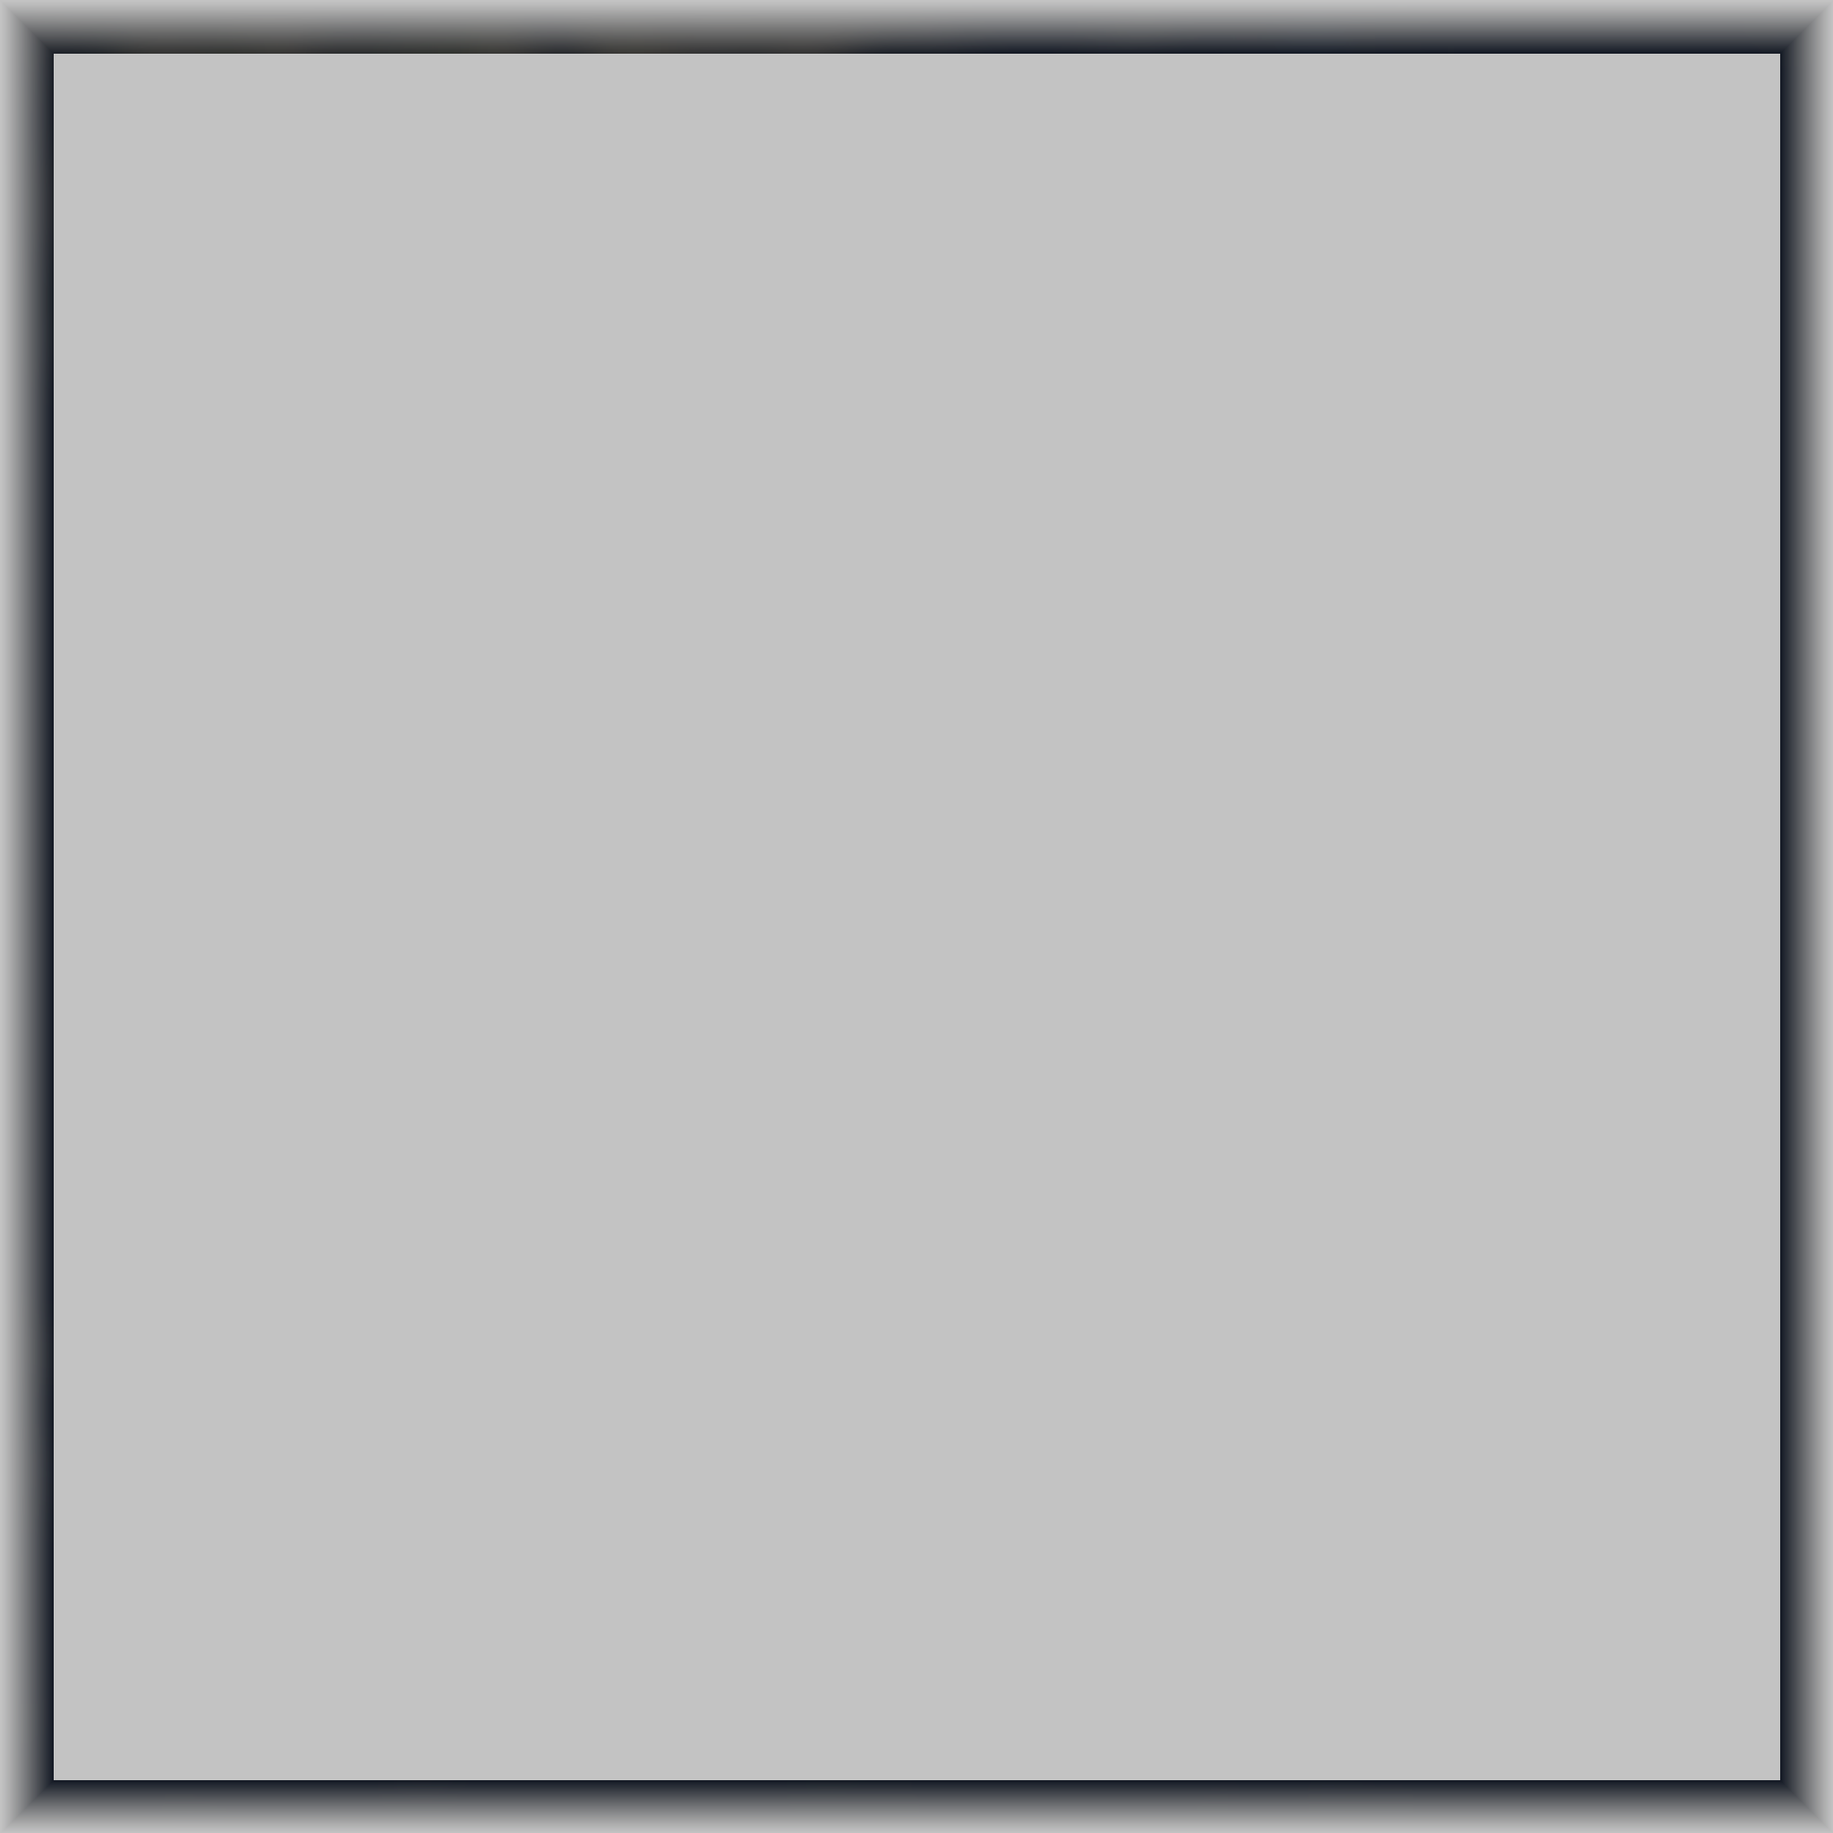
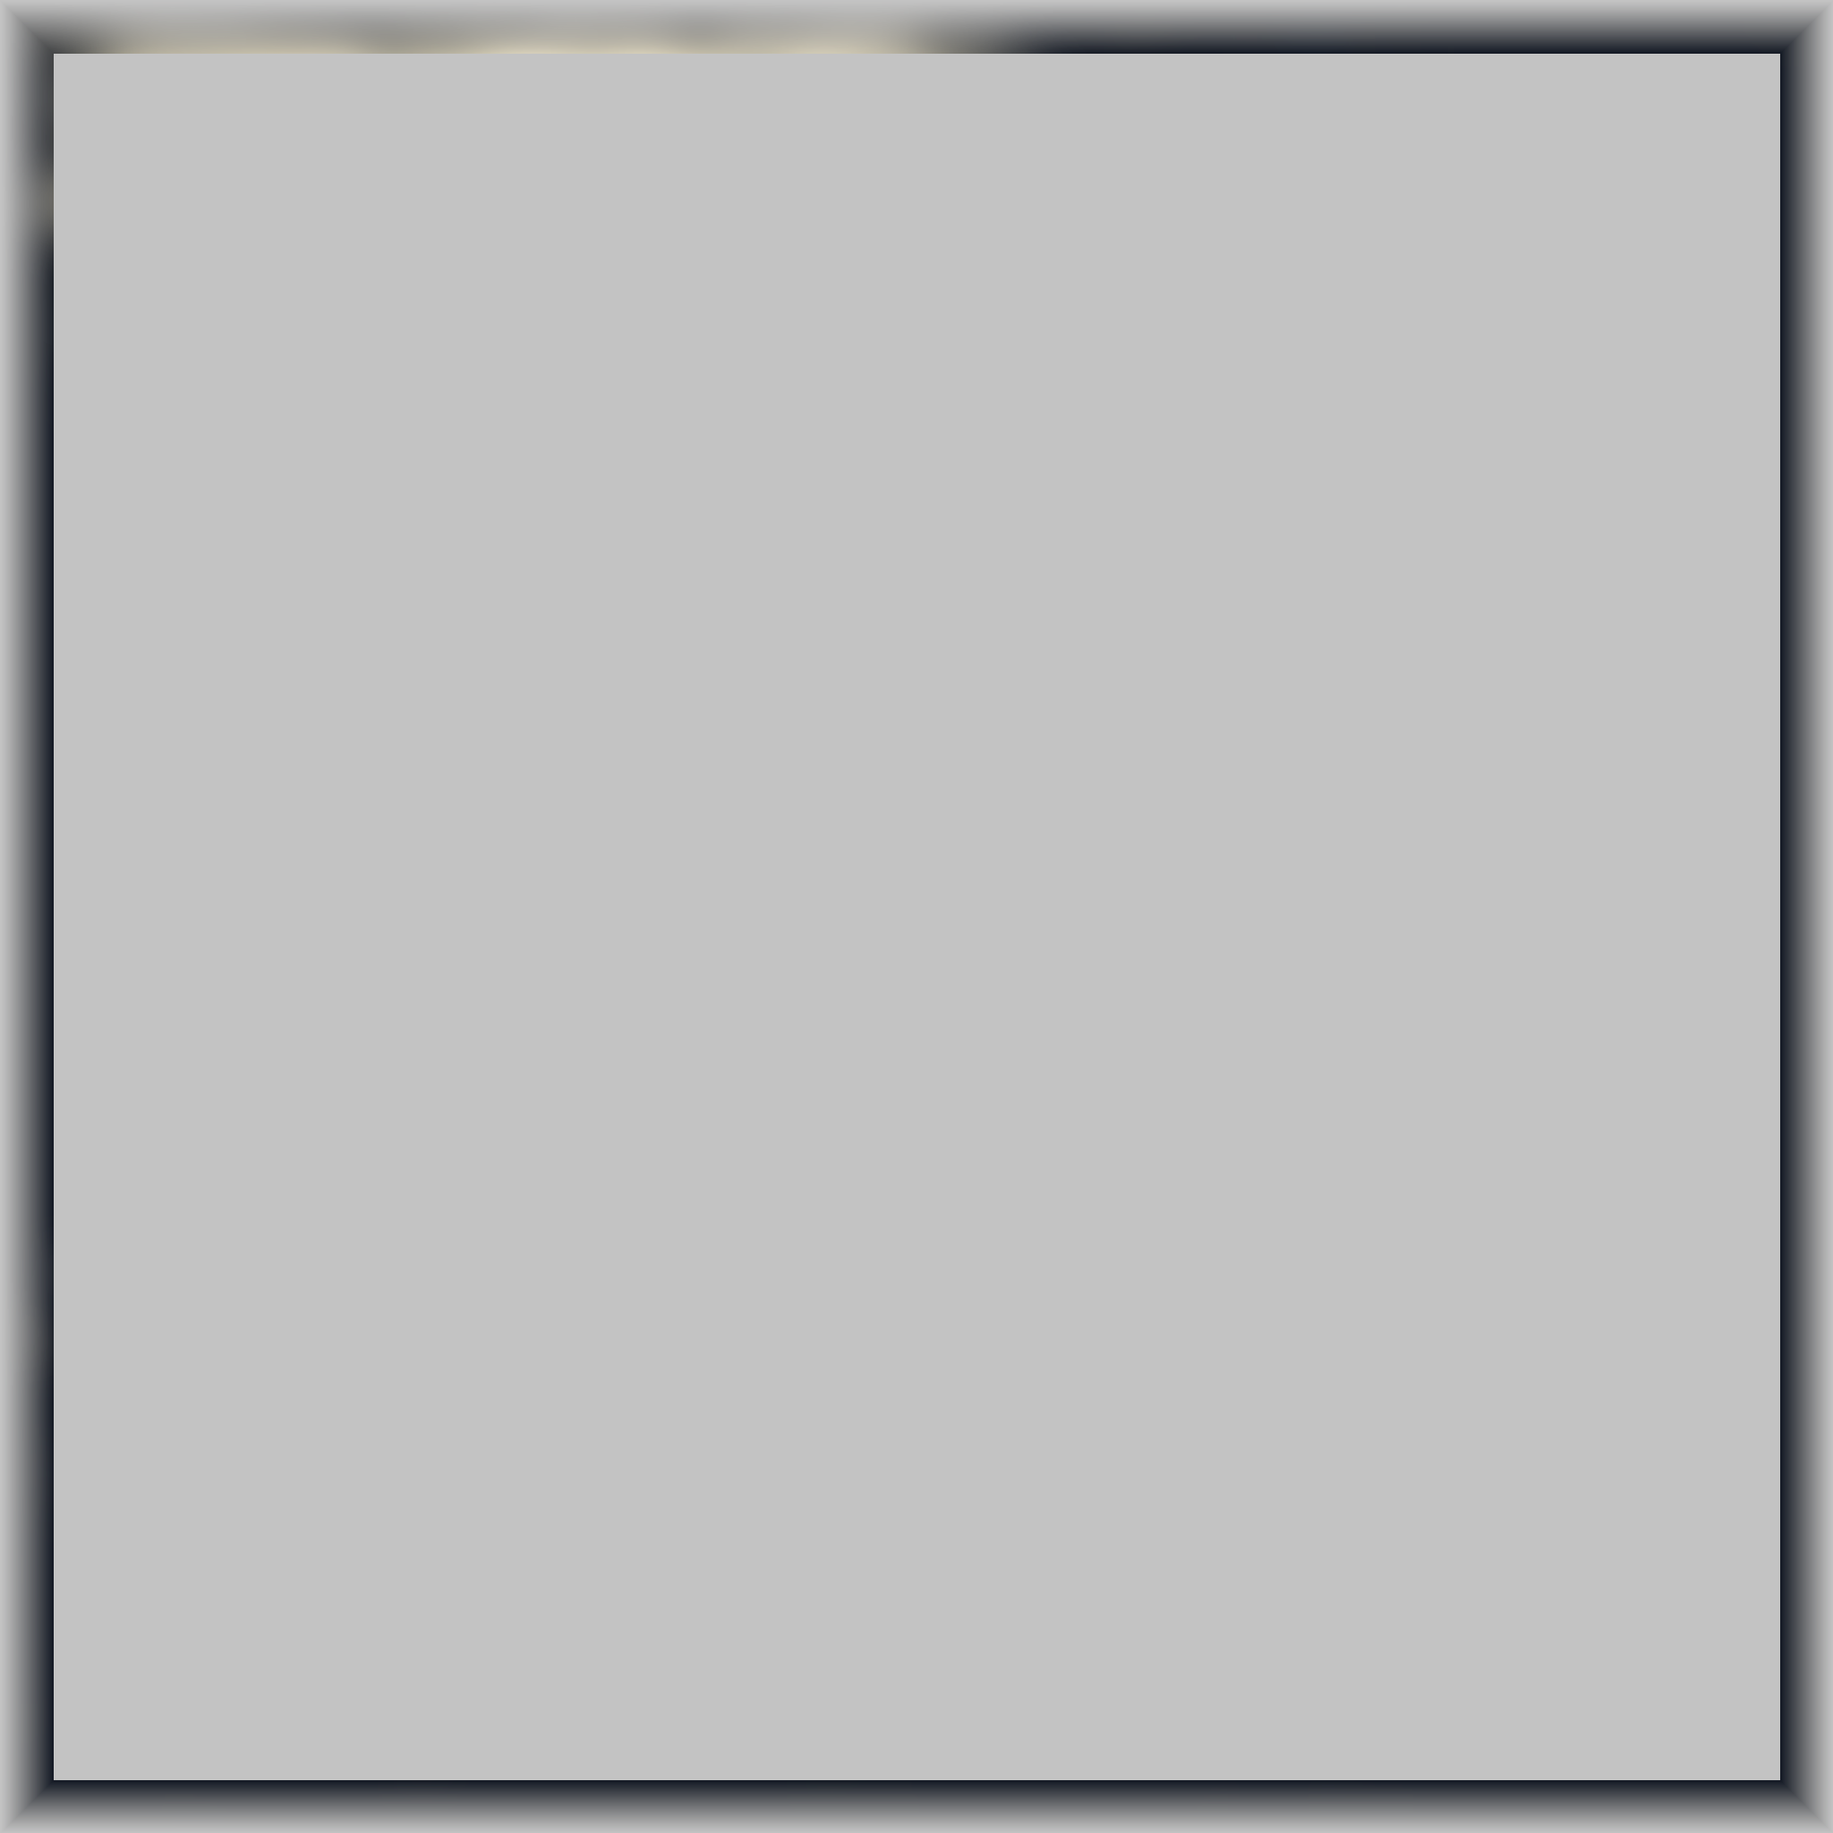
Phase H: smart flyToChapter + street/place labels + map legend
H1 - Street/Place labels in basemap:
- scripts/render_hk_basemap.py: new Pass 5 renders major road names
  (motorway/trunk/primary) + place labels (park/hospital/school/mall)
- 10,927 labels rendered on 2048x2048 basemap (42,927 → 74,361 bytes)
- Uses CJK font (msgothic/msyh/NotoSansCJK fallback chain)

H2 - flyToChapter smart zoom:
- Computes bounding box of all locations referenced by chapter ±2
- Pads bbox by 25%, converts to viewBox coords (with y-axis invert)
- Falls back to full HK bbox if no locations match
- Replaces stub `flyToChapter` that did nothing

H3 - Map legend overlay:
- HTML overlay with marker color samples (current event, other event,
  real location, fictional location, selected, character route)
- Position: top-left under existing map-overlay

H4 - CSS for legend (separate .map-legend / .legend-item / .dot-* rules)

H5 - vitest tests:
- tests/svgmap.legend.test.ts: 6 new tests
  * legend HTML structure
  * CJK label "地圖標記"
  * marker type descriptions
  * flyToChapter implementation
  * 25% bbox padding
  * render script has label passes

Gates:
- pytest 100/100 (no regression)
- vitest 18/18 (was 12)
- lint / typecheck / build / validate / audit --strict all green

Changed region(s): [[0.0312, 0.0, 0.5625, 0.0312], [0.0, 0.0312, 0.0312, 0.125]]

diff --git a/src/components/SvgMap.ts b/src/components/SvgMap.ts
@@ -128,7 +128,17 @@ export class SvgMap {
           </defs>
           <g id="map-content"></g>
         </svg>
-        <div class="map-overlay" id="map-overlay"></div>
+        <div class="map-overlay" id="map-overlay">
+          <div class="map-legend" id="map-legend">
+            <div class="legend-title">地圖標記</div>
+            <div class="legend-item"><span class="dot dot-event-current"></span>本章事件</div>
+            <div class="legend-item"><span class="dot dot-event-other"></span>其他章事件</div>
+            <div class="legend-item"><span class="dot dot-loc-real"></span>真實地點</div>
+            <div class="legend-item"><span class="dot dot-loc-fictional"></span>虛構地點</div>
+            <div class="legend-item"><span class="dot dot-selected"></span>選中</div>
+            <div class="legend-item"><span class="line route-legend"></span>角色路線</div>
+          </div>
+        </div>
         <div class="map-controls">
           <button id="map-zoom-in" class="map-ctrl" title="放大">+</button>
           <button id="map-zoom-out" class="map-ctrl" title="縮小">−</button>
@@ -336,7 +346,58 @@ export class SvgMap {
   }
 
   flyToChapter(_ch: number): void {
-    // Optional: pan slightly to focus events of this chapter
+    // Phase H: smart zoom — compute the bounding box of all locations
+    // referenced by the chapter (and surrounding ±3 chapters for context)
+    // and re-pan the viewBox to fit. Falls back to the full HK bbox if no
+    // locations are present.
+    const cur = _ch;
+    const contextChs = new Set<number>();
+    for (let d = -2; d <= 2; d++) contextChs.add(cur + d);
+    let lonMin = Infinity, lonMax = -Infinity, latMin = Infinity, latMax = -Infinity;
+    let has = false;
+    for (const loc of this.data.locations.features) {
+      const fp = loc.properties.first_appearance;
+      const chs = loc.properties.chapters || [fp];
+      if (chs.some((c: number) => contextChs.has(c))) {
+        const [lon, lat] = (loc.geometry.coordinates as [number, number]);
+        // Also try FALLBACK_ANCHORS for fictional locations
+        const fb = FALLBACK_ANCHORS[loc.properties.name];
+        const useLon = fb ? fb.lon : lon;
+        const useLat = fb ? fb.lat : lat;
+        if (useLon >= BASEMAP_BBOX.lon_min && useLon <= BASEMAP_BBOX.lon_max) {
+          lonMin = Math.min(lonMin, useLon);
+          lonMax = Math.max(lonMax, useLon);
+          latMin = Math.min(latMin, useLat);
+          latMax = Math.max(latMax, useLat);
+          has = true;
+        }
+      }
+    }
+    if (!has) {
+      this.render();
+      return;
+    }
+    // Pad bbox by 25% to give some breathing room
+    const lonPad = (lonMax - lonMin) * 0.25;
+    const latPad = (latMax - latMin) * 0.25;
+    lonMin = Math.max(BASEMAP_BBOX.lon_min, lonMin - lonPad);
+    lonMax = Math.min(BASEMAP_BBOX.lon_max, lonMax + lonPad);
+    latMin = Math.max(BASEMAP_BBOX.lat_min, latMin - latPad);
+    latMax = Math.min(BASEMAP_BBOX.lat_max, latMax + latPad);
+    // Convert to viewBox coords
+    const fx0 = (lonMin - BASEMAP_BBOX.lon_min) / (BASEMAP_BBOX.lon_max - BASEMAP_BBOX.lon_min);
+    const fx1 = (lonMax - BASEMAP_BBOX.lon_min) / (BASEMAP_BBOX.lon_max - BASEMAP_BBOX.lon_min);
+    // Y-axis inverted (SVG y points down, lat points up)
+    const fy0 = (BASEMAP_BBOX.lat_max - latMax) / (BASEMAP_BBOX.lat_max - BASEMAP_BBOX.lat_min);
+    const fy1 = (BASEMAP_BBOX.lat_max - latMin) / (BASEMAP_BBOX.lat_max - BASEMAP_BBOX.lat_min);
+    const x = 113.85 + Math.min(fx0, fx1) * 0.60;
+    const y = 22.18 + Math.min(fy0, fy1) * 0.37;
+    const w = Math.abs(fx1 - fx0) * 0.60;
+    const h = Math.abs(fy1 - fy0) * 0.37;
+    this.svg.setAttribute("viewBox", `${x} ${y} ${w} ${h}`);
+    this.viewX = 0;
+    this.viewY = 0;
+    this.viewScale = 1.0;
     this.render();
   }
 }

diff --git a/tests/svgmap.legend.test.ts b/tests/svgmap.legend.test.ts
@@ -1,0 +1,78 @@
+// 《病港》Phase H — SvgMap 互動地圖測試
+// Validates legend rendering and flyToChapter smart zoom behaviour.
+
+import { readFileSync } from "node:fs";
+import { describe, expect, it } from "vitest";
+
+describe("Phase H: SvgMap legend", () => {
+  it("legend HTML exists in SvgMap template", () => {
+    // The map legend with marker color samples is defined in SvgMap.ts init()
+    // template. This smoke-test reads the source and checks for the expected
+    // CSS class names that the legend uses.
+    const src = readFileSync("src/components/SvgMap.ts", "utf-8");
+    // Legend CSS classes
+    expect(src).toContain('class="map-legend"');
+    expect(src).toContain('class="legend-title"');
+    expect(src).toContain('class="legend-item"');
+    // Legend marker color classes
+    expect(src).toContain("dot-event-current");
+    expect(src).toContain("dot-event-other");
+    expect(src).toContain("dot-loc-real");
+    expect(src).toContain("dot-loc-fictional");
+    expect(src).toContain("dot-selected");
+    expect(src).toContain("route-legend");
+  });
+
+  it("legend includes CJK label '地圖標記'", () => {
+    const src = readFileSync("src/components/SvgMap.ts", "utf-8");
+    expect(src).toContain("地圖標記");
+  });
+
+  it("legend includes descriptive text for each marker type", () => {
+    const src = readFileSync("src/components/SvgMap.ts", "utf-8");
+    expect(src).toContain("本章事件");
+    expect(src).toContain("其他章事件");
+    expect(src).toContain("真實地點");
+    expect(src).toContain("虛構地點");
+    expect(src).toContain("選中");
+    expect(src).toContain("角色路線");
+  });
+});
+
+describe("Phase H: SvgMap flyToChapter smart zoom", () => {
+  it("flyToChapter is implemented and not a stub", () => {
+    const src = readFileSync("src/components/SvgMap.ts", "utf-8");
+    // flyToChapter should compute bbox from location features
+    expect(src).toMatch(/flyToChapter\([^)]*\)\s*:\s*void\s*\{/);
+    // Should iterate over data.locations.features to compute bbox
+    expect(src).toContain("data.locations.features");
+    // Should reference FALLBACK_ANCHORS to handle fictional locations
+    expect(src).toContain("FALLBACK_ANCHORS");
+    // Should set viewBox
+    expect(src).toContain("setAttribute(\"viewBox\"");
+  });
+
+  it("flyToChapter pads bbox by ~25% to give breathing room", () => {
+    const src = readFileSync("src/components/SvgMap.ts", "utf-8");
+    // 0.25 padding ratio should be in the flyToChapter section
+    const idx = src.indexOf("flyToChapter");
+    expect(idx).toBeGreaterThan(-1);
+    const slice = src.slice(idx, idx + 3000);
+    expect(slice).toContain("0.25");
+  });
+});
+
+describe("Phase H: SvgMap basemap image", () => {
+  it("basemap PNG is rendered with street + place labels", () => {
+    // The render script should have rendered > 1000 labels so the basemap
+    // contains place names (e.g. 將軍澳) without needing a separate label
+    // overlay layer.
+    const renderScript = readFileSync("scripts/render_hk_basemap.py", "utf-8");
+    // The render script must include label passes
+    expect(renderScript).toContain("Pass 5: street / place labels");
+    expect(renderScript).toContain("label_font");
+    // Must have at least one of: road labels, place labels
+    expect(renderScript).toContain("major_roads");
+    expect(renderScript).toContain("hospital");
+  });
+});

diff --git a/src/styles/main.css b/src/styles/main.css
@@ -234,6 +234,52 @@ html, body {
   border: 1px solid var(--border);
 }
 
+.map-legend {
+  display: flex;
+  flex-direction: column;
+  gap: 4px;
+  pointer-events: auto;
+  min-width: 130px;
+}
+
+.legend-title {
+  color: var(--fg);
+  font-size: 12px;
+  font-weight: 600;
+  margin-bottom: 4px;
+  letter-spacing: 0.5px;
+}
+
+.legend-item {
+  display: flex;
+  align-items: center;
+  gap: 6px;
+  font-size: 11px;
+}
+
+.legend-item .dot {
+  display: inline-block;
+  width: 10px;
+  height: 10px;
+  border-radius: 50%;
+  border: 1px solid rgba(255, 255, 255, 0.4);
+  flex-shrink: 0;
+}
+
+.legend-item .line {
+  display: inline-block;
+  width: 16px;
+  height: 3px;
+  flex-shrink: 0;
+}
+
+.dot-event-current { background: #e74c3c; }
+.dot-event-other   { background: #f39c12; }
+.dot-loc-real      { background: #e67e22; }
+.dot-loc-fictional { background: #9b59b6; }
+.dot-selected      { background: #ffeb3b; }
+.route-legend      { background: #F39C12; border-radius: 2px; }
+
 .map-controls {
   position: absolute;
   bottom: 12px;

diff --git a/scripts/render_hk_basemap.py b/scripts/render_hk_basemap.py
@@ -32,7 +32,7 @@ from pathlib import Path
 from typing import Any
 
 import requests
-from PIL import Image, ImageDraw, ImageFilter
+from PIL import Image, ImageDraw, ImageFilter, ImageFont
 
 REPO = Path(__file__).resolve().parent.parent
 DEFAULT_OUTPUT_PNG = REPO / "public" / "assets" / "hk-basemap.png"
@@ -270,7 +270,97 @@ def render_basemap(data: dict[str, Any], size: int) -> Image.Image:
             draw.polygon(poly, fill=PALETTE["building"], outline=None)
         n_bldg += 1
 
-    print(f"  water={n_water} coast={n_coast} park={n_park} road={n_road} bldg={n_bldg} other={n_other}")
+    # Pass 5: street / place labels
+    # Render major road names + landmark names (parks, hospitals) at low
+    # alpha so they don't dominate the basemap. The text uses the same aged-
+    # paper colour as the rest of the bing-gang palette.
+    n_label = 0
+    n_skipped_small = 0
+    try:
+        # Try a CJK font if available; fall back to default bitmap font
+        font_path = None
+        for cand in (
+            "C:/Windows/Fonts/msgothic.ttc",
+            "C:/Windows/Fonts/msyh.ttc",
+            "C:/Windows/Fonts/NotoSansCJK-Regular.ttc",
+            "/System/Library/Fonts/PingFang.ttc",
+        ):
+            if Path(cand).exists():
+                font_path = cand
+                break
+        label_font = ImageFont.truetype(font_path, size=max(10, size // 100)) if font_path else ImageFont.load_default()
+        label_font_small = ImageFont.truetype(font_path, size=max(8, size // 140)) if font_path else ImageFont.load_default()
+    except Exception as e:
+        print(f"  (label font unavailable: {e}; skipping label pass)", file=sys.stderr)
+        label_font = None
+        label_font_small = None
+
+    if label_font is not None:
+        import math
+        # 5a) Road labels — only major highways with name, single midpoint
+        major_roads = ("motorway", "trunk", "primary")
+        for el in elements:
+            if el.get("type") != "way":
+                continue
+            tags = el.get("tags", {}) or {}
+            if tags.get("highway") not in major_roads:
+                continue
+            name = tags.get("name")
+            if not name:
+                continue
+            pts = way_to_points(el)
+            if len(pts) < 2:
+                continue
+            # Midpoint of way
+            mid = pts[len(pts) // 2]
+            x, y = lonlat_to_px(mid[0], mid[1], size)
+            # Truncate to 14 CJK chars
+            txt = name[:14] if len(name) > 14 else name
+            try:
+                draw.text(
+                    (x, y), txt, fill=(220, 210, 180, 200),
+                    font=label_font, anchor="mm", spacing=2,
+                )
+                n_label += 1
+            except Exception:
+                n_skipped_small += 1
+        # 5b) Place labels — parks, hospitals, malls, schools (top 200)
+        place_count = 0
+        for el in elements:
+            if el.get("type") != "way":
+                continue
+            tags = el.get("tags", {}) or {}
+            kind = (
+                "park" if tags.get("leisure") == "park" or tags.get("landuse") == "park"
+                else "hospital" if tags.get("amenity") == "hospital"
+                else "school" if tags.get("amenity") in ("school", "kindergarten")
+                else "university" if tags.get("amenity") == "university"
+                else "mall" if tags.get("shop") == "mall"
+                else None
+            )
+            if not kind:
+                continue
+            name = tags.get("name")
+            if not name or len(name) < 2:
+                continue
+            n = el.get("geometry", [])
+            if not n:
+                continue
+            x, y = lonlat_to_px(n[0]["lon"], n[0]["lat"], size)
+            try:
+                txt = name[:10]
+                draw.text(
+                    (x, y), txt, fill=(200, 220, 240, 180),
+                    font=label_font_small, anchor="lm", spacing=1,
+                )
+                place_count += 1
+                if place_count >= 200:
+                    break
+            except Exception:
+                pass
+        n_label += place_count
+
+    print(f"  water={n_water} coast={n_coast} park={n_park} road={n_road} bldg={n_bldg} labels={n_label} other={n_other}")
 
     # Post-processing: subtle blur to soften pixel edges, slight desaturation
     # for a "weathered" look without losing sharpness.
